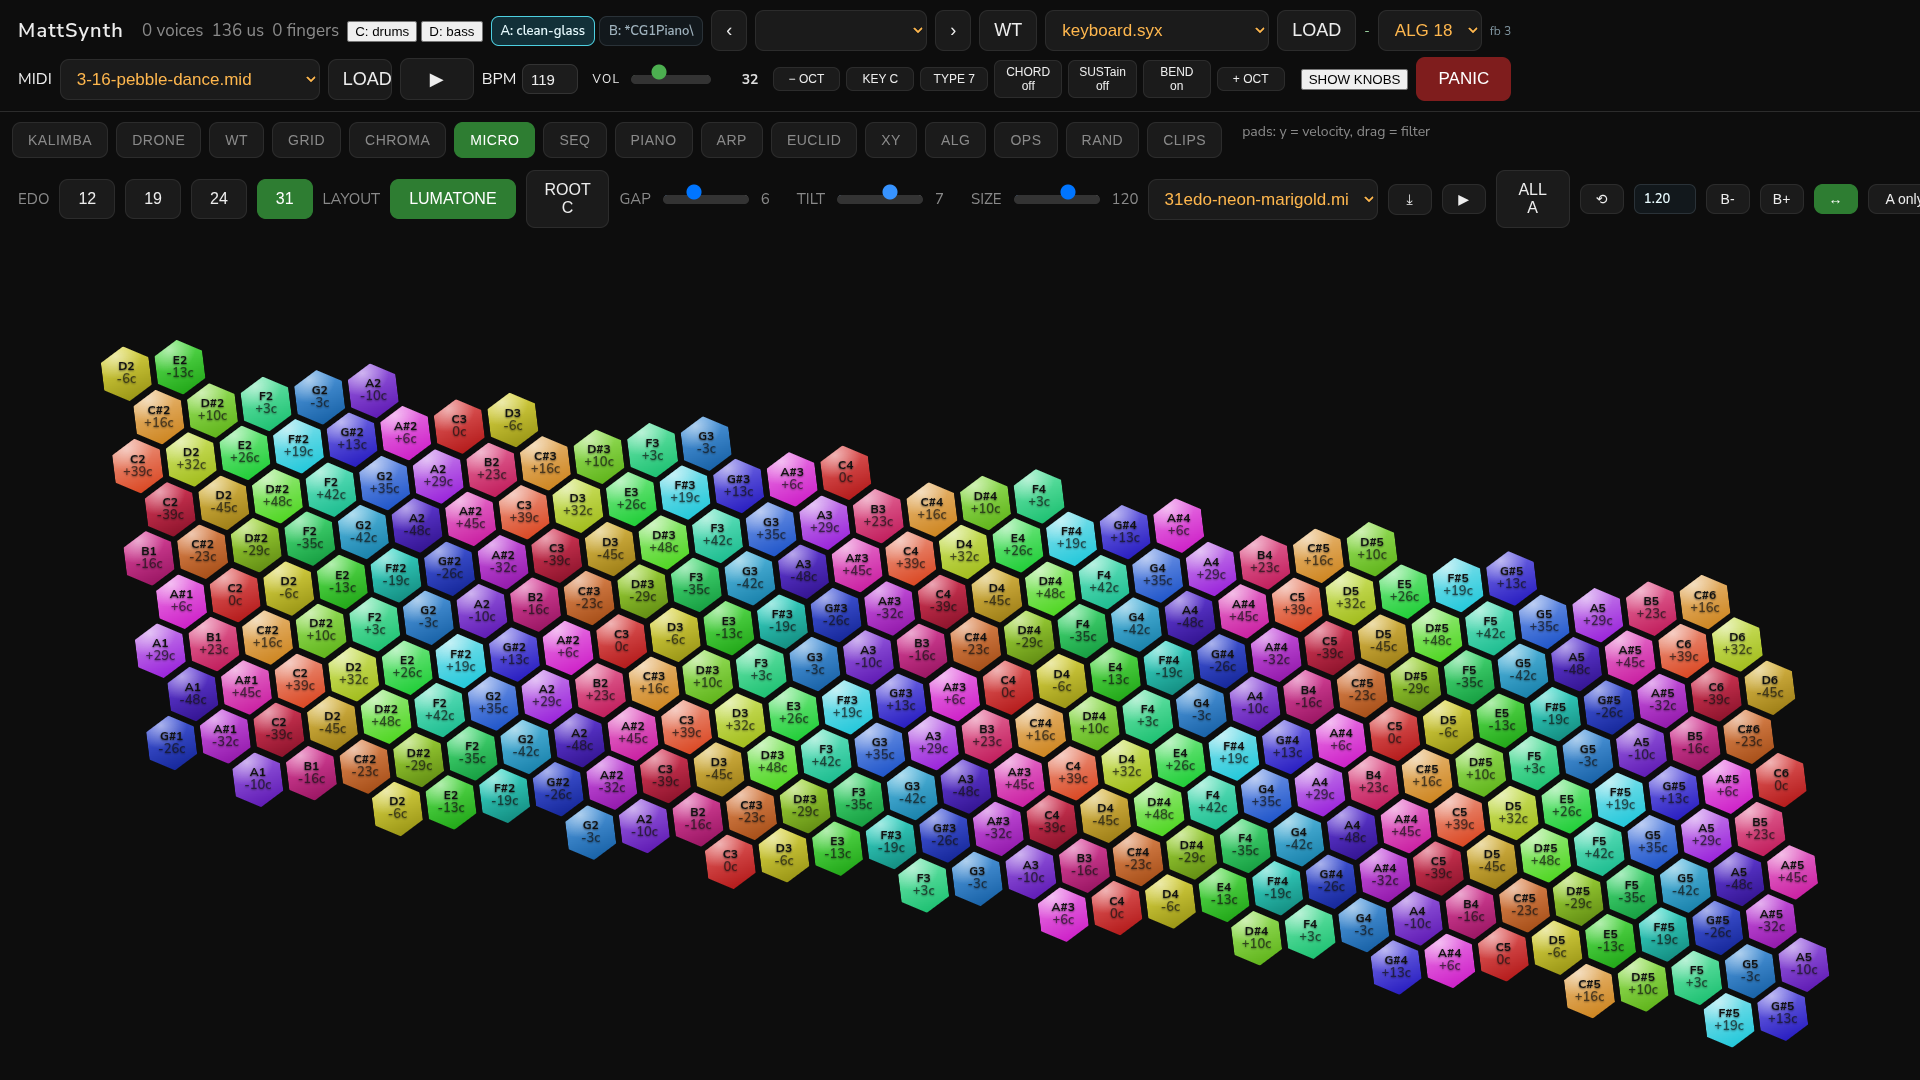
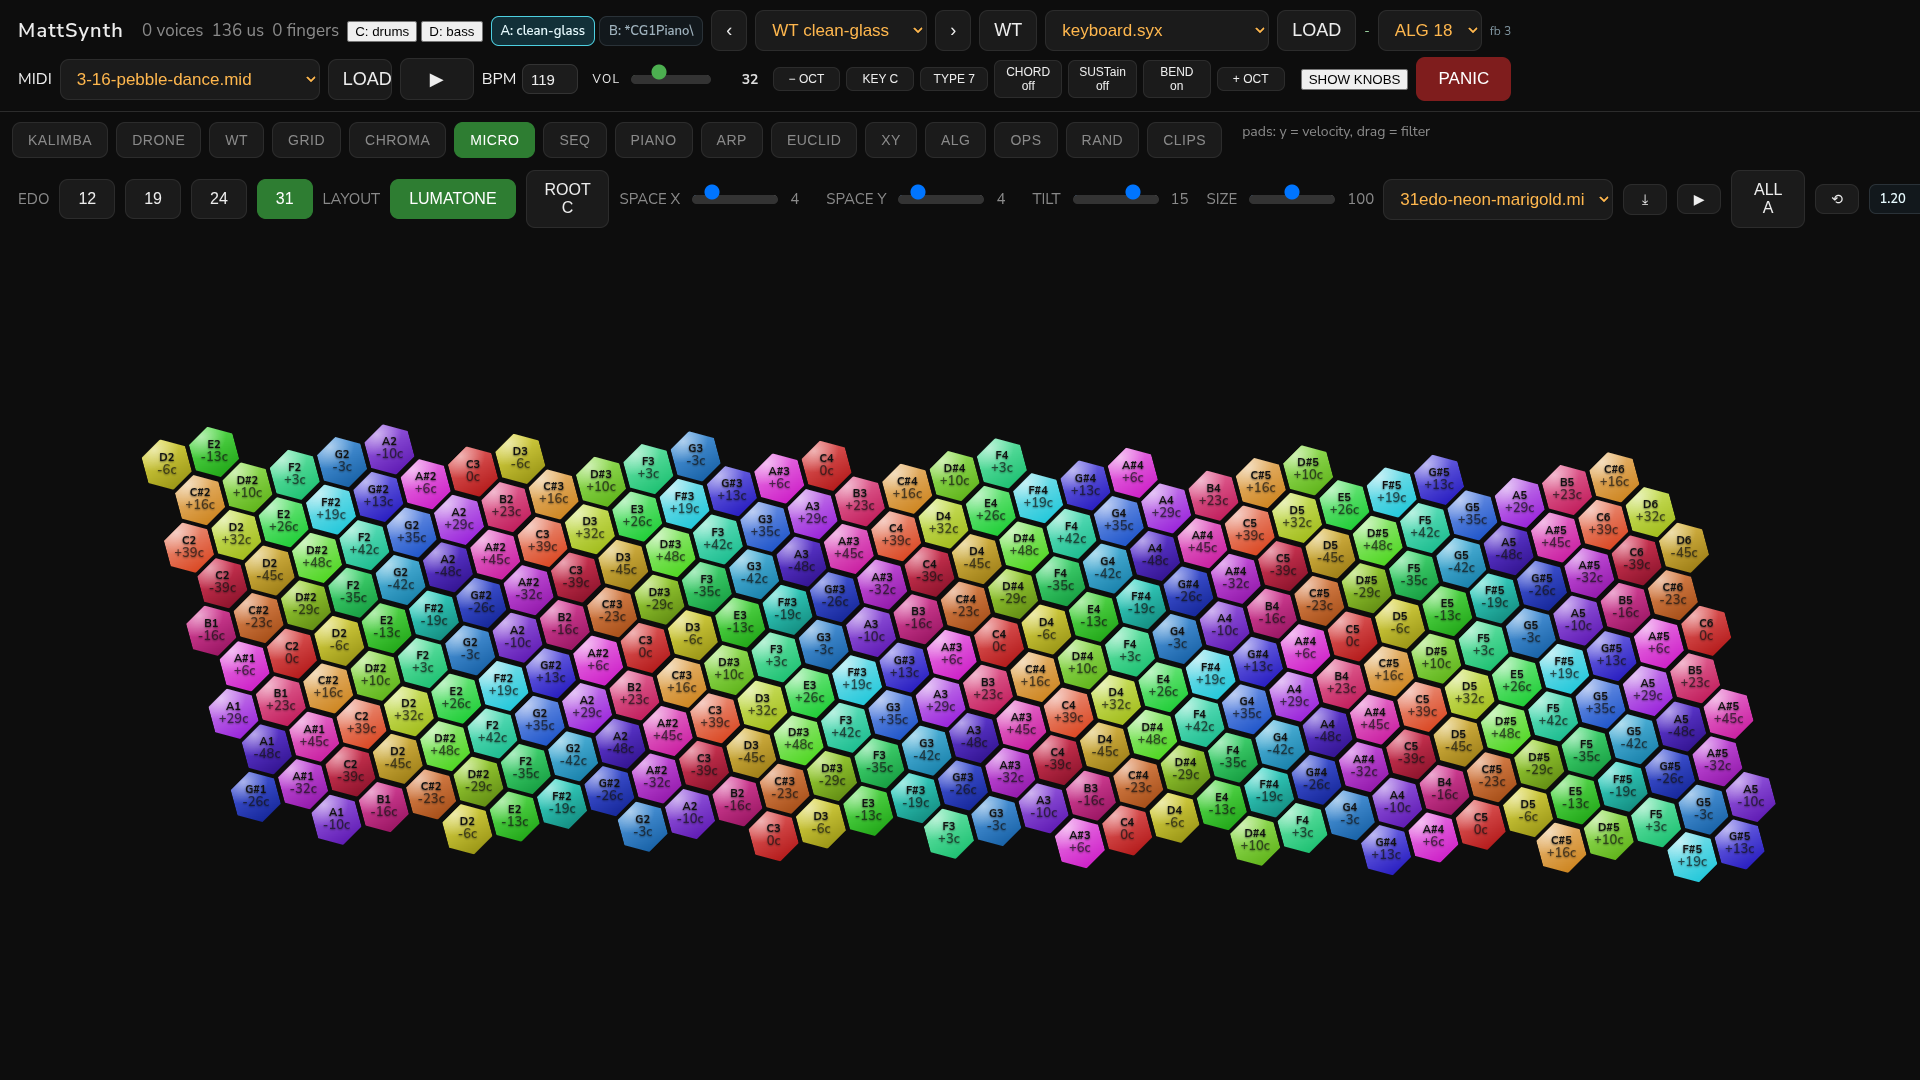
micro: separate X and Y spacing, tilt defaults to 15
The single GAP slider becomes SPACE X and SPACE Y, which widen the pitch between keys
without shrinking the keys themselves, so the gap is exactly what the slider says in
each direction. The fit calculation accounts for both, so the board still cannot
overflow. Tilt now defaults to 15 degrees.

diff --git a/panel/panel_ui.py b/panel/panel_ui.py
@@ -916,7 +916,7 @@ let bendRange=1200;   /* cents at full deflection, set by the BEND knob */
 let chordN=3;         /* how many notes a pad plays with CHORD on, set by the CHORD knob */
 let chordSpace=1;     /* multiplies the chord type gaps: maj 0-2-4 at 2 becomes 0-4-8 */
 /* microtonal player: EDO, layout and root */
-const micro = { edo:24, layout:"bosa", root:0, size:"big", gap:4, tilt:7, ksize:100 };
+const micro = { edo:24, layout:"bosa", root:0, size:"big", gapX:4, gapY:4, tilt:15, ksize:100 };
 let fxHidden = false;   /* the right column can collapse so a player gets the width */
 let part = 0;   /* which timbre the pads, roll and edit verbs act on */
 const fingers = new Map();   // pointerId -> the exact notes that finger started
@@ -3859,9 +3859,10 @@ function buildMicro(){
     inp.onchange = ()=> saveState();
     bar.appendChild(t); bar.appendChild(inp); bar.appendChild(out);
   };
-  geom("GAP", "gap", 0, 18);
-  geom("TILT", "tilt", -25, 25);
-  geom("SIZE", "ksize", 60, 150);
+  geom("SPACE X", "gapX", 0, 24);
+  geom("SPACE Y", "gapY", 0, 24);
+  geom("TILT", "tilt", -30, 30);
+  geom("SIZE", "ksize", 50, 150);
 
   /* the file transport rides on this board: no second keyboard */
   const sel = document.createElement("select"); sel.id = "midisel"; sel.className = "pbtn";
@@ -4231,17 +4232,18 @@ function hexGrid(container){
                    [1,28],[4,26],[7,23],[10,20],[13,17],[16,14],[19,11],[22,8],[25,5],[28,2]];
     const ROWS = SIZES.length, MAXC = 30;
     const TILT = (typeof micro.tilt === "number" ? micro.tilt : 7);
-    const GAP = Math.max(0, micro.gap | 0);
+    const GX = Math.max(0, micro.gapX | 0), GY = Math.max(0, micro.gapY | 0);
     const ZOOM = Math.max(0.5, Math.min(1.6, (micro.ksize || 100) / 100));
-    /* the largest key that still fits the stage, then SIZE trims down from there, so
-       the board can never spill out of the container */
-    const wMax = Math.max(22, Math.floor(Math.min(availW / (MAXC + 0.5),
-                       availH / (((ROWS - 1) * 0.75 + 1)) * (Math.sqrt(3) / 2))));
-    const w = Math.max(12, Math.min(wMax, Math.round(wMax * ZOOM)));
+    /* largest key that still fits with the chosen spacing; SIZE trims down from it */
+    const wFitW = (availW - (MAXC + 0.5) * GX) / (MAXC + 0.5);
+    const wFitH = (availH - (ROWS - 1) * GY) / (((ROWS - 1) * 0.75 + 1) * 2 / Math.sqrt(3));
+    const wMax = Math.max(14, Math.floor(Math.min(wFitW, wFitH)));
+    const w = Math.max(10, Math.min(wMax, Math.round(wMax * ZOOM)));
     const h = Math.round(w * 2 / Math.sqrt(3));       /* pointy-top hexagon */
     const vpitch = h * 0.75;
-    const gridH = Math.round((ROWS - 1) * vpitch + h);
-    const gridW = Math.round(MAXC * w + w / 2);
+    const pitchX = w + GX, pitchY = vpitch + GY;
+    const gridH = Math.round((ROWS - 1) * pitchY + h);
+    const gridW = Math.round(MAXC * pitchX + w / 2);
     grid.style.height = gridH + "px";
     grid.style.width = gridW + "px";
     grid.style.position = "relative";
@@ -4284,13 +4286,13 @@ function hexGrid(container){
         }
         const k = microKey(c, r, MAXC, ROWS, fNote, fLab, (zone ? fCents : null));
         k.dataset.zone = zone;
-        const kw = Math.max(8, w - GAP), kh = Math.round(kw * 2 / Math.sqrt(3));
+        const kw = w;
         k.style.width = kw + "px";
-        k.style.height = kh + "px";
+        k.style.height = h + "px";
         /* one half key of shear per row: that is what makes the intervals read as
            diagonals on the real instrument, and it replaces the odd row stagger */
-        k.style.left = Math.round(c * w + (r % 2 ? w / 2 : 0)) + "px";
-        k.style.top = Math.round(r * vpitch) + "px";
+        k.style.left = Math.round(c * pitchX + (r % 2 ? w / 2 : 0)) + "px";
+        k.style.top = Math.round(r * pitchY) + "px";
         const zn = +k.dataset.zone || 0;
         if(zn === 2 || zn === 3 || (micro.splitOn && (+k.dataset.note < (micro.split|0)))){
           const rim = zn === 2 ? "#ff8a65" : (zn === 3 ? "#b388ff" : "#ffb74d");
